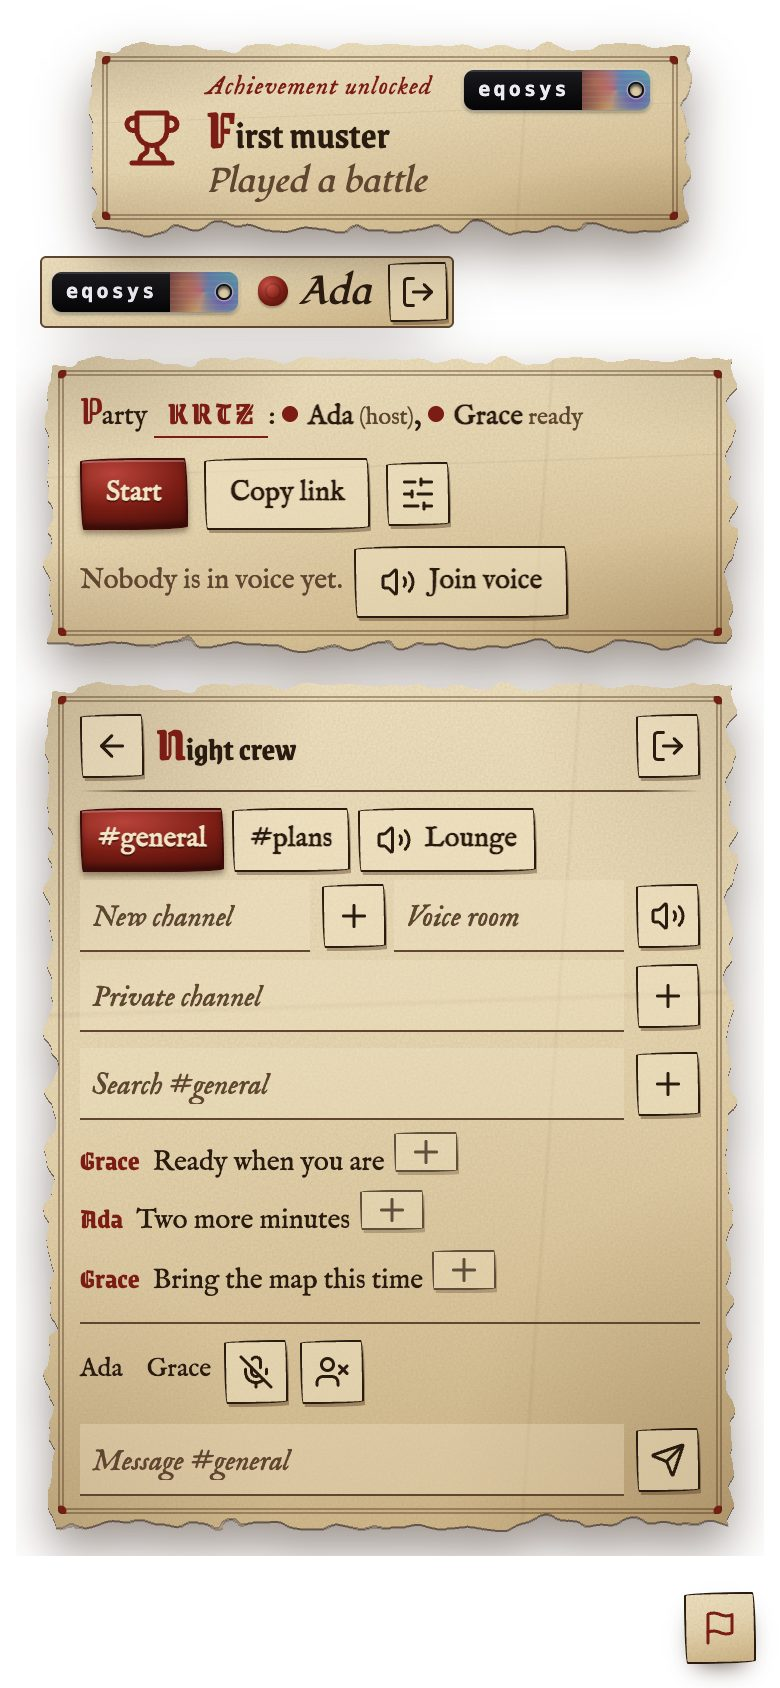
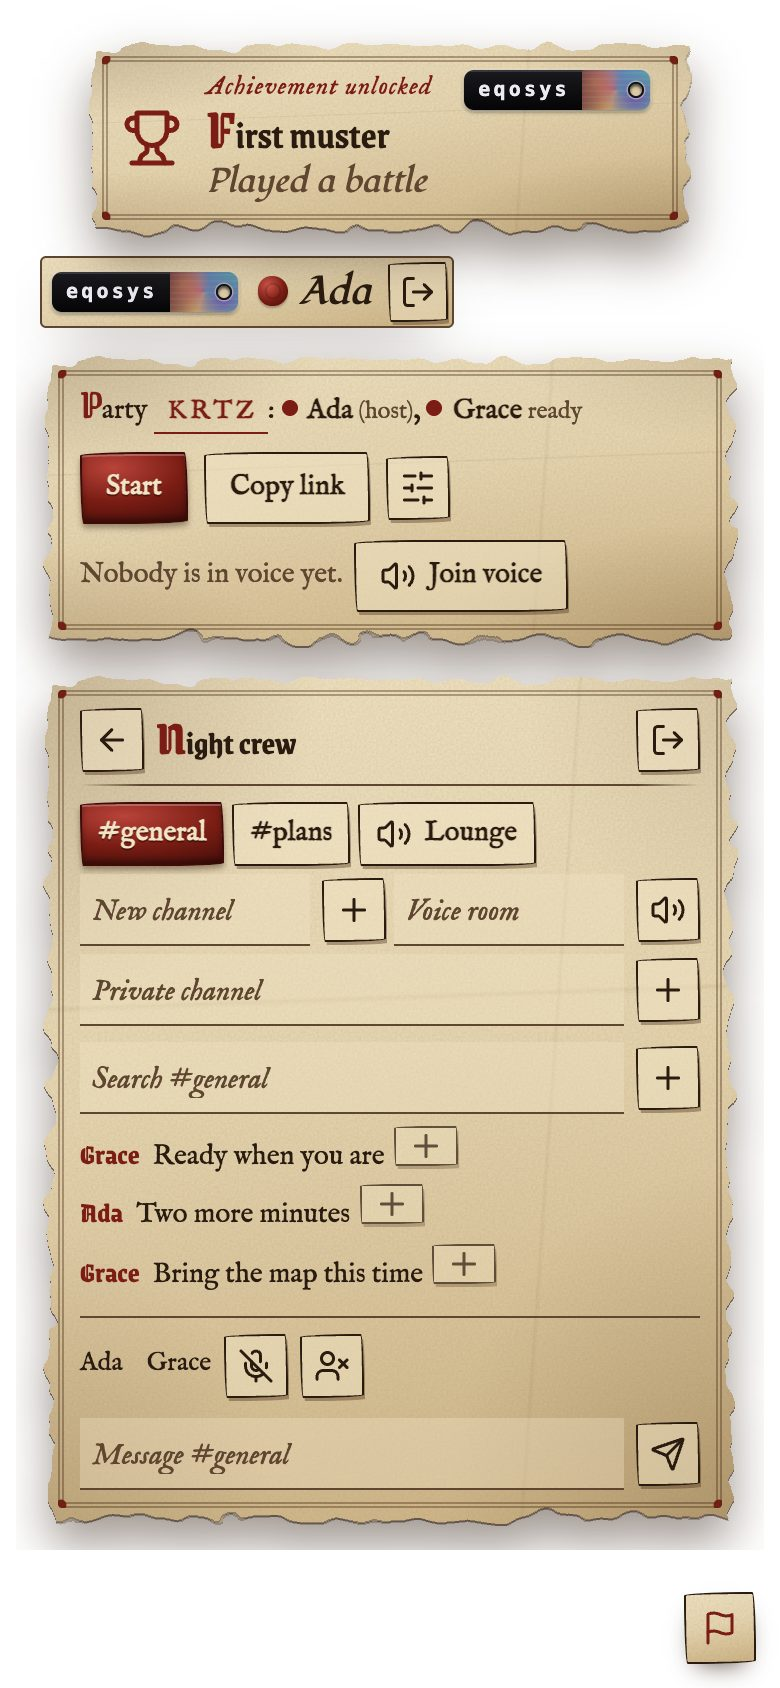
Mythic's party code stays in the book face so it reads as a code to share

Changed region(s): [[0.0615, 0.2156, 0.9538, 0.9242], [0.8, 0.5237, 0.8923, 0.6777], [0.9231, 0.7701, 0.9538, 0.8009]]

diff --git a/apps/mythic-masters/src/account.ts b/apps/mythic-masters/src/account.ts
@@ -47,7 +47,7 @@ ${leaf("::after")}{content:"";position:absolute;inset:8px;z-index:-1;pointer-eve
 .eq-btn:hover{background:var(--paper-hi)}
 .eq-btn.primary,.rb-spaces-tabs .eq-btn.on{border-color:#3e0b08;background:radial-gradient(120% 90% at 30% 20%,#b8433a,var(--blood) 55%,#4a0f0a);color:var(--paper-hi);text-shadow:0 1px 0 #00000066;box-shadow:inset 0 1px 0 #ffffff40,inset 0 -2px 3px #00000059,0 2px 3px #28140666}
 .rb-report>.eq-btn{box-shadow:0 6px 12px -6px #281406bf}.rb-report>.eq-btn svg{color:var(--blood)}
-.rb-lobby-code{border:0;border-bottom:1.5px solid var(--blood);border-radius:0;background:none;color:var(--blood);font-family:var(--f-title);font-size:16px}
+.rb-lobby-code{border:0;border-bottom:1.5px solid var(--blood);border-radius:0;background:none;color:var(--blood)}
 .eq-coach{top:104px}.eq-coach b{font-size:19px}.eq-coach p{font-family:var(--f-book)}`,
 };
 
